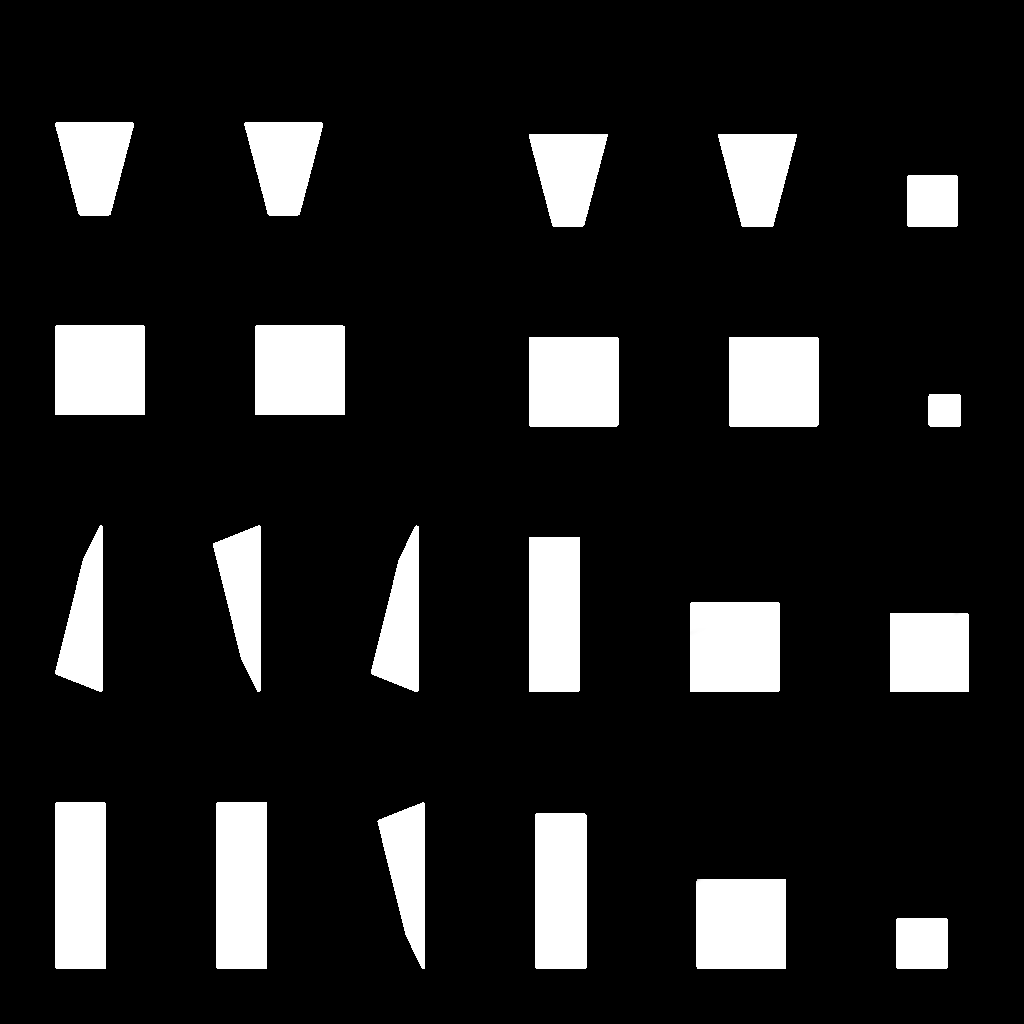
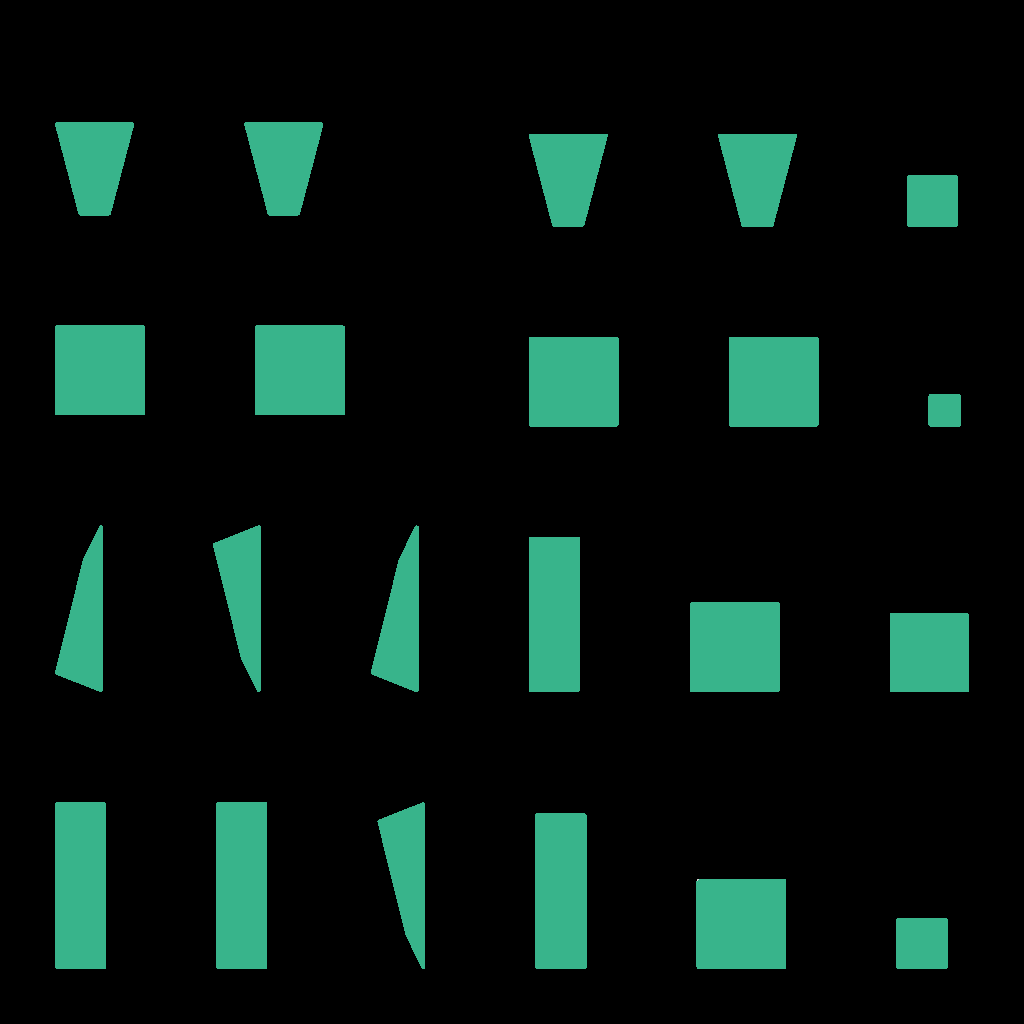
unit君の色を変更

diff --git a/project/gamedata/Unit.cpp b/project/gamedata/Unit.cpp
@@ -86,7 +86,7 @@ void Unit::ShortInitialize() {
 	isLive_ = true;
 	respawnCoolTime = 0;
 	phase_ = Phase::Next;
-	material = {1.0f,0.0f,0.0f,1.0f};
+	material = {0.3f,0.9f,0.5f,1.0f};
 	liveTime_ = 0;
 	powerStep_ = 1;
 }
@@ -105,7 +105,7 @@ void Unit::Update() {
 			worldTransform_.translation_.num[0] = worldPos.num[0];
 			worldTransform_.translation_.num[2] = worldPos.num[2];
 			worldTransform_.translation_.num[1] = 2.0f;
-			material = { 1.0f,0.0f,0.0f,1.0f };
+			material = { 0.3f,0.9f,0.5f,1.0f };
 			worldTransform_.UpdateMatrix();
 		}
 		respawnCoolTime--;
